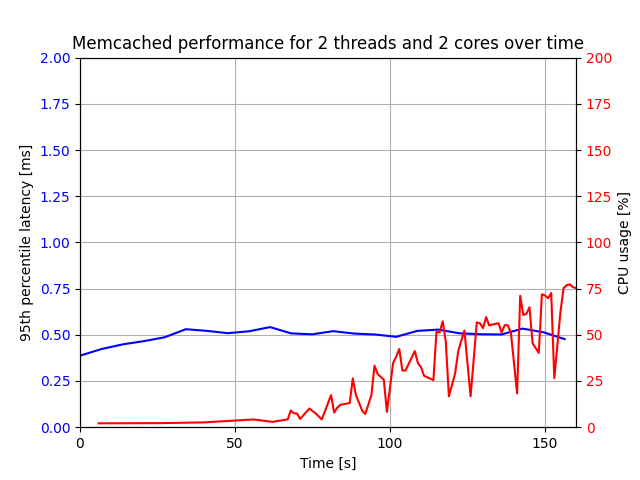
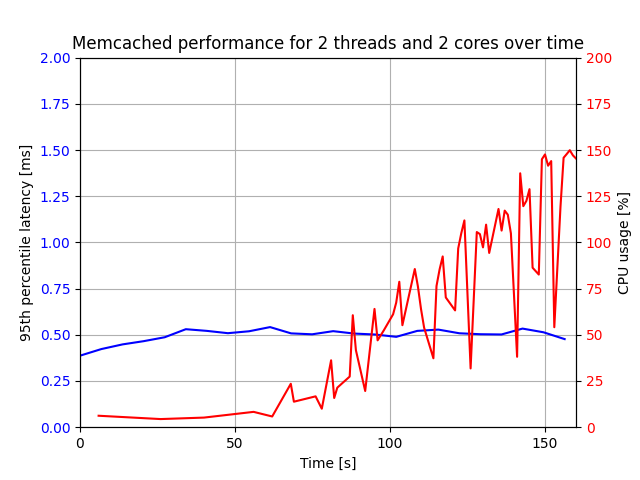
adapted y axis limits

Changed region(s): [[0.1562, 0.3125, 0.9062, 0.9062]]

diff --git a/part4/main_1d.py b/part4/main_1d.py
@@ -86,11 +86,30 @@ def create_all_cpu_arrays(file):
     print(len(x_data))
     print(x_data)
     return (x_data, y_data)
+    
+def create_all_cpu_arrays_2(file):
+    raw_data_row = raw_data.readline()
+    while (raw_data_row[0:3] != "165"):
+        raw_data_row = file.readline()
+    x_data = []
+    y_data = []
+    raw_row_array = comma(raw_data_row)
+    x_min = raw_row_array[0]
+    print(x_min)
+    while (raw_data_row[:3] == "165"):
+        raw_row_array = comma(raw_data_row)
+        if (int(raw_row_array[1]) > 1 and int(raw_row_array[2]) > 1 and int(raw_row_array[3]) > 1 and int(raw_row_array[4]) > 1):
+            x_data.append(int(raw_row_array[0] - x_min))
+            y_data.append(raw_row_array[2] + raw_row_array[3])
+        raw_data_row = file.readline()
+    print(len(x_data))
+    print(x_data)
+    return (x_data, y_data)
 
 print("start program")
 (x2, y2) = create_all_cpu_arrays(raw_data)
 (x1, y1) = create_all_data_arrays(raw_data)
-(x2_2, y2_2) = create_all_cpu_arrays(raw_data)
+(x2_2, y2_2) = create_all_cpu_arrays_2(raw_data)
 (x1_2, y1_2) = create_all_data_arrays(raw_data)
 
 
